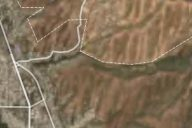
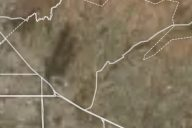
0.0.1

diff --git a/apps/web/src/components/map/basemap.ts b/apps/web/src/components/map/basemap.ts
@@ -34,56 +34,69 @@ function absolute(path: string): string {
 }
 
 /**
- * Подложка Protomaps в цветах дизайн‑системы: холодный светлый фон в обеих темах, чтобы цветные
- * слои (станции, SILAM, предупреждения, границы) читались. В тёмной теме — приглушённый
- * серо‑синий вариант «grayscale», а не чёрная карта (docs/03-design-system.md §5).
+ * «Схема» — классическая цветная карта в пастельных тонах: тёплая суша, голубая вода, зелёная
+ * растительность, песочные пустоши, белые ледники, жёлтые магистрали. Насыщенность ниже, чем у
+ * цветов уровней качества воздуха, поэтому станции и прогноз поверх читаются; нейтральный вариант
+ * без цвета — «Серая». Карта светлая в обеих темах, в тёмной — чуть приглушена
+ * (docs/03-design-system.md §5).
  */
 function flavorFor(theme: "light" | "dark"): { flavor: Flavor; sprite: string } {
-  if (theme === "dark") {
-    const base = namedFlavor("grayscale");
-    return {
-      sprite: "grayscale",
-      flavor: {
-        ...base,
-        background: "#d8dee8",
-        earth: "#e3e8f0",
-        park_a: "#dbe6dc",
-        park_b: "#d3e0d4",
-        water: "#b9c9dc",
-        buildings: "#d4dbe6",
-        major: "#f4f6f9",
-        highway: "#f6f8fb",
-        country_label: "#3b4a63",
-        city_label: "#2e3d55",
-        state_label: "#4e5f78",
-      },
-    };
-  }
   const base = namedFlavor("light");
-  return {
-    sprite: "light",
-    flavor: {
-      ...base,
-      background: "#e9eef5",
-      earth: "#eef2f7",
-      water: "#cfdcec",
-      park_a: "#dfeadf",
-      park_b: "#d5e3d6",
-      country_label: "#3b4a63",
-      city_label: "#142238",
-      // Растительность — едва заметными оттенками фона: насыщенные зелёный и жёлтый спорили бы с
-      // цветами уровней качества воздуха (станции и SILAM поверх подложки).
-      landcover: {
-        grassland: "#e7eee7",
-        barren: "#f1efea",
-        urban_area: "#e5e8ed",
-        farmland: "#e8eee6",
-        glacier: "#f8fafc",
-        scrub: "#ecefe6",
-        forest: "#dfe9e1",
-      },
+  const flavor: Flavor = {
+    ...base,
+    background: "#e9e4da",
+    earth: "#f4f1ea",
+    water: "#a8cbe6",
+    park_a: "#d5e8cf",
+    park_b: "#c4e0bc",
+    wood_a: "#d2e6cc",
+    wood_b: "#bddbb4",
+    scrub_a: "#dfe8cd",
+    scrub_b: "#cbdfb6",
+    glacier: "#fbfcfd",
+    sand: "#efe5cc",
+    beach: "#f1e6c6",
+    buildings: "#e2dcd2",
+    industrial: "#e6e1d9",
+    aerodrome: "#e4e2dd",
+    major: "#ffffff",
+    major_casing_early: "#ddd4c4",
+    major_casing_late: "#ddd4c4",
+    highway: "#f7d590",
+    highway_casing_early: "#dfb766",
+    highway_casing_late: "#dfb766",
+    country_label: "#3b4a63",
+    city_label: "#142238",
+    landcover: {
+      grassland: "#dcebd2",
+      barren: "#efe6d3",
+      urban_area: "#e5e0d8",
+      farmland: "#e2ecce",
+      glacier: "#fbfcfd",
+      scrub: "#e3e9cd",
+      forest: "#c7dfc0",
     },
   };
+  return { sprite: "light", flavor: theme === "dark" ? dimFlavor(flavor, 0.14) : flavor };
+}
+
+/** Тёмная тема: цвета схемы сдвинуты к серо‑синему, чтобы светлая карта не слепила. */
+function dimFlavor(flavor: Flavor, amount: number): Flavor {
+  const target = [0x8a, 0x95, 0xa6];
+  const dim = (value: unknown): unknown => {
+    if (typeof value === "string" && /^#[0-9a-f]{6}$/i.test(value)) {
+      const rgb = [1, 3, 5].map((i) => Number.parseInt(value.slice(i, i + 2), 16));
+      return `#${rgb
+        .map((c, i) => Math.round(c + ((target[i] ?? c) - c) * amount))
+        .map((c) => c.toString(16).padStart(2, "0"))
+        .join("")}`;
+    }
+    if (value && typeof value === "object") {
+      return Object.fromEntries(Object.entries(value).map(([k, v]) => [k, dim(v)]));
+    }
+    return value;
+  };
+  return dim(flavor) as Flavor;
 }
 
 /** Серая подложка: нейтральная, без цветных заливок — цвета данных читаются лучше всего. */

diff --git a/docs/02-architecture.md b/docs/02-architecture.md
@@ -293,8 +293,8 @@ select add_compression_policy('measurements', interval '3 months');
 - Компонент `apps/web/src/components/map/station-map.tsx` (MapLibre GL 6, подложка Protomaps из самостоятельно размещённых PMTiles — `basemap.ts`), ленивое монтирование `station-map.lazy.tsx`. Главная страница — `map-screen.tsx` (сервер: станции с уровнем и подписями, сводка по городу из шапки, каталоги SILAM и SmartMet, предупреждения) и `map-view.tsx` (клиент); та же карта без интерфейса главной — на `/air` (`components/air/station-map-section.tsx`), на странице станции — с центром на станции.
 - Главная (просьба Заказчика 02.11.2026 — «как у других, красиво, понятно, без информационного шума»): **одна тема за раз** — переключатели «Воздух · Погода» и «Сейчас · Прогноз» (нативные радиокнопки) вместо панели из шести флажков. «Воздух · Сейчас» — станции; «Воздух · Прогноз» — растр SILAM с ползунком; «Погода · Сейчас» — HTML‑маркеры городов (SmartSymbol и температура; крупные города на любом масштабе, остальные с зума 8); «Погода · Прогноз» — WMS SmartMet, переключатель срока показывается, только если прогноз загружен. Выбор пишется в адрес (`?layer=silam|weather`, `history.replaceState`). Карточка города из шапки (`home-cards.tsx`, серверные компоненты): уровень словом и цветом, определяющее вещество (`до …` при нескольких станциях), время обновления и шкала уровней `LevelGauge` — она же легенда; для погоды — значок, температура, макс/мин, ветер. На широком экране колонка 23rem слева (страна вписывается правее, `insetLeft`), на телефоне карточка внизу над атрибуцией OSM (`insetBottom`). Предупреждения CAP — слой и плашка с числом, только когда действуют. Недоступное не показывается: без SILAM или WMS нет переключателя срока, без данных нет «скоро» и технических пояснений.
 - Станции на главной приходят с сервера готовым GeoJSON (`stationsData`: уровень, подпись уровня, «PM2.5 34 µg/m³», «Обновлено 10:00»), без запроса `/api/v1/stations`. Свежие станции кластеризуются (кружок цвета худшего уровня с ореолом, без числа — число читалось бы как значение индекса), станции без свежих данных — отдельный слой бледных колец с зума 8; приостановленные и выведенные не показываются. Попап станции — уровень словом, значение, время, ссылка. На `/air` и странице станции — прежние кластеры с числом и `/api/v1/stations`.
-- Контур страны `GET /api/v1/regions/outline` (§9) → маска «всё, кроме Таджикистана» (`outline-mask.ts`: прямоугольник мира с внешними кольцами контура в роли дырок, направление обхода дырок разворачивается) поверх подписей подложки: соседние страны приглушены (сильнее, когда включён растровый прогноз — его прямоугольник выходит за границу), контур страны — линия поверх маски. Растительность подложки — едва заметными оттенками фона, чтобы не спорить с цветами уровней. Контролы главной: зум (только на широком экране) и геолокация, без полноэкранного режима и масштабной линейки.
-- Тип карты (02.11.2026, просьба Заказчика — «как „Тип географических карт“ у data.meteo.uz, только открыто и бесплатно»): кнопка с миниатюрой текущей подложки (`basemap-picker.tsx`, меню‑radio с картинками `public/map-types/*.jpg`), выбор хранится в `localStorage` (`meteo-basemap`). `buildBasemapStyle(theme, lang, basemap)` (`basemap.ts`): `scheme` — светлая Protomaps (приглушённая в тёмной теме), `gray` — нейтральная серая, `relief` — схема + слой `hillshade` из `raster-dem` (`/tiles/terrain.pmtiles`, Terrarium 512 px) над растительностью и под водой и дорогами, `satellite` — растр `/tiles/satellite.pmtiles` поверх тёмной схемы (вне снимка) с границами, крупными дорогами и подписями Protomaps (`labelsOnly`). Рельеф и спутник предлагаются, только если `HEAD /tiles/…` отвечает 200; на снимке контуры областей и страны светлые. Данные — только открытые и на своём сервере: `infra/data/fetch-basemap-layers.sh` (рельеф — `build-terrain.mjs`, копия тайлов Mapterhorn/Copernicus DEM с собственной записью PMTiles v3; спутник — GDAL в Docker из COG ESA WorldCover на AWS Open Data, только обзорный уровень 40 м), runbook §1.5.
+- Контур страны `GET /api/v1/regions/outline` (§9) → маска «всё, кроме Таджикистана» (`outline-mask.ts`: прямоугольник мира с внешними кольцами контура в роли дырок, направление обхода дырок разворачивается) поверх подписей подложки: соседние страны приглушены (сильнее, когда включён растровый прогноз — его прямоугольник выходит за границу), контур страны — линия поверх маски. Подложка по умолчанию — «Схема»: цветная, но пастельная (растительность, вода, пустоши, ледники), насыщенность ниже цветов уровней; «Серая» — та же карта без цвета, для максимального контраста с данными. Контролы главной: зум (только на широком экране) и геолокация, без полноэкранного режима и масштабной линейки.
+- Тип карты (02.11.2026, просьба Заказчика — «как „Тип географических карт“ у data.meteo.uz, только открыто и бесплатно»): кнопка с миниатюрой текущей подложки (`basemap-picker.tsx`, меню‑radio с картинками `public/map-types/*.jpg`), выбор хранится в `localStorage` (`meteo-basemap`). `buildBasemapStyle(theme, lang, basemap)` (`basemap.ts`): `scheme` — цветная пастельная Protomaps (в тёмной теме цвета сдвинуты к серо‑синему, `dimFlavor`), `gray` — нейтральная серая, `relief` — схема + слой `hillshade` из `raster-dem` (`/tiles/terrain.pmtiles`, Terrarium 512 px) над растительностью и под водой и дорогами, `satellite` — растр `/tiles/satellite.pmtiles` поверх тёмной схемы (вне снимка) с границами, крупными дорогами и подписями Protomaps (`labelsOnly`). Рельеф и спутник предлагаются, только если `HEAD /tiles/…` отвечает 200; на снимке контуры областей и страны светлые. Данные — только открытые и на своём сервере: `infra/data/fetch-basemap-layers.sh` (рельеф — `build-terrain.mjs`, копия тайлов Mapterhorn/Copernicus DEM с собственной записью PMTiles v3; спутник — GDAL в Docker из COG ESA WorldCover на AWS Open Data, только обзорный уровень 40 м), runbook §1.5.
 - Слои снизу вверх: подложка → заливка областей (`regions-fill`) → растр SILAM (`silam-raster`) → погода SmartMet (`weather-raster`, `weather-arrows`) → контуры районов (`districts-line`, с зума 8; GeoJSON районов запрашивается при первом приближении к зуму 7) → контуры областей (`regions-line`) → предупреждения CAP (`warnings-fill`, `warnings-line`) → подписи подложки → маска и контур страны (`country-mask`, `country-line`) → станции. Оверлеи вставляются под первый symbol‑слой стиля в порядке списка `OVERLAY_ORDER`, поэтому порядок не зависит от того, какой слой включили первым. Смена темы (`setStyle` без diff) пересоздаёт стиль — оверлеи восстанавливает обработчик `style.load` (контур страны берётся из памяти, без повторного запроса); обработчики кликов и наведения регистрируются один раз (делегируются по id слоя).
 - Границы регионов: `GET /api/v1/regions` и `GET /api/v1/districts` (§9) — на главной всегда видны (без флажков). Наведение — подсветка через feature-state и подпись области на языке интерфейса, клик — попап с названием, числом станций и ссылкой на `/air`; клики по станциям и предупреждениям границы не перехватывают. Заливка областей цветом худшего уровня (`BoundariesLayer.fill`) поддерживается картой, но с главной убрана: при станциях в одном‑двух районах она красила бы целые области по одному датчику. Пока геометрии не загружены, API отдаёт пустую коллекцию и слой пуст.
 - Источник границ: `infra/data/load-boundaries.ts` (GADM 4.1 по умолчанию, geoBoundaries через `--source=geoboundaries`; ST_MakeValid → ST_SimplifyPreserveTopology 0,002° → upsert по коду; таксономия COD‑AB в `infra/data/boundaries/`). Лицензия GADM не допускает распространение без разрешения — для продакшена рекомендуется geoBoundaries (ODbL, как и тайлы OSM), решение за Заказчиком (D9).

diff --git a/docs/03-design-system.md b/docs/03-design-system.md
@@ -120,7 +120,7 @@
 | `ExceedanceNotice` | `components/air` | превышения порогов одной строкой на вещество («PM10 выше порога на 5 станциях с 18:10 · Что это значит»), на странице станции — значение и порог |
 | `StationFeed` | `components/air` | лента станций: плитка с цветной полоской слева, значение определяющего вещества, слово уровня и время; без данных — «нет данных с …» |
 | `PollutantTiles` | `components/air` | плитки веществ: короткое имя с подсказкой (`pollutantHints.*`), плашка уровня, значение, спарклайн, мин/макс; пустые состояния «станция не измеряет SO₂, ближайшая с этим веществом — …» |
-| `MapPanel` / `StationMap` | `components/air`, `components/map` | карта с легендой‑фишками на самой карте и фишками слоёв (ссылки на `/?layer=…`); подложка Protomaps светлая в обеих темах (`basemap.ts`: light / приглушённый grayscale) |
+| `MapPanel` / `StationMap` | `components/air`, `components/map` | карта с легендой‑фишками на самой карте и фишками слоёв (ссылки на `/?layer=…`); подложка Protomaps светлая в обеих темах (`basemap.ts`: «Схема» — пастельная цветная, в тёмной теме приглушена; «Серая» — без цвета) |
 | `MeasurementChart` / `WeatherChart` | `components/air`, `components/weather` | ECharts в токенах: полосы уровней тинтами, линия `--brand-primary`, оси и подписи `--muted-foreground`, подсказка в `--popover`; табы периодов сегментным контролом |
 | `SilamDays` | `components/air` | прогноз SILAM по дням плитками: день, плашка уровня, определяющее вещество |
 | `CityWeatherList` | `components/weather` | погода по городам списком: название и описание, температура, плашка «воздух» (уровень по станциям в радиусе 15 км от точки прогноза, `lib/city-air.ts`) |
@@ -140,7 +140,7 @@
 
 **Остальные публичные страницы:** `/air` — сводка («13 станций, 8 передают данные…»), легенда, карта, лента по областям; `/weather` — города списком с плашкой «воздух», выбранный город первым; `/weather/{slug}` — полоса «сейчас» (температура крупно, факты), прогноз SILAM плитками, предупреждения, лента 24 ч, график, таблица дней; `/warnings` — сводка, матрица регион × день, карточки с полоской серьёзности; `/news` — редакционный список с рубриками‑фишками; `/health` — секция на уровень с заливкой `--aq-N-tint`; `/air/index` — методика и таблицы порогов (`#thresholds` — цель ссылки «Что это значит»); `/data`, `/data/api`, `/about` — секции без карточек; `/embed/*` — те же токены, компактно.
 
-**Карта (главная):** колонка слева (23rem) — переключатели‑«таблетки» темы и срока (нативные радиокнопки, главный выбор — заливка `primary`, срок — `muted`) и под ними карточка города или прогноза на `bg-card/95`; на телефоне переключатели сверху, карточка снизу над атрибуцией OSM. Шкала уровней `LevelGauge` — сегменты всех уровней публичной шкалы, текущий выше и с обводкой, подписи крайних уровней, полный список для экранных дикторов; без выделения — легенда прогноза. Подложка: растительность едва заметными оттенками фона (не спорит с цветами уровней), вне страны — маска `#eef2f6` 72 % (88 % при растровом прогнозе). «Тип карты» — квадрат с миниатюрой текущей подложки (как в Google Maps; 76×64 на широком экране слева внизу, 44×44 на телефоне справа под геолокацией), меню — сетка 2×2 миниатюр с подписями, выбранная обведена `primary`.
+**Карта (главная):** колонка слева (23rem) — переключатели‑«таблетки» темы и срока (нативные радиокнопки, главный выбор — заливка `primary`, срок — `muted`) и под ними карточка города или прогноза на `bg-card/95`; на телефоне переключатели сверху, карточка снизу над атрибуцией OSM. Шкала уровней `LevelGauge` — сегменты всех уровней публичной шкалы, текущий выше и с обводкой, подписи крайних уровней, полный список для экранных дикторов; без выделения — легенда прогноза. Подложка «Схема»: тёплая суша, голубая вода, зелень и песочные пустоши в пастельных тонах — насыщенность ниже цветов уровней, станции с белой обводкой читаются; «Серая» — без цвета, для максимального контраста с данными; вне страны — маска `#eef2f6` 72 % (88 % при растровом прогнозе). «Тип карты» — квадрат с миниатюрой текущей подложки (как в Google Maps; 76×64 на широком экране слева внизу, 44×44 на телефоне справа под геолокацией), меню — сетка 2×2 миниатюр с подписями, выбранная обведена `primary`.
 
 **Админка:** те же токены и шрифты; дашборд — показатели одной строкой (ссылки в разделы), статус worker в заголовке, свежесть данных станций таблицей компактных строк, интеграции и почта списками, последние действия; формы и таблицы — shadcn без глубокой переделки.
 

diff --git a/docs/manuals/user/tg.md b/docs/manuals/user/tg.md
@@ -115,7 +115,7 @@
 
 **Обу ҳаво · Пешгӯӣ** (вақте харитаҳои SmartMet Server пайваст шудаанд) — ҳарорати ҳаво, боришот, шамол ё абрнокӣ бо лағжонаки вақт ва шкалаи қиматҳо.
 
-**Намуди харита** — тугма бо тасвири хурди харита (дар компютер — аз чап дар поён, дар телефон — аз рост дар боло, зери тугмаи мавқеъ): «Нақша», «Хокистарӣ», «Релйеф» (сояи кӯҳҳо аз рӯи модели рақамии релйефи Copernicus) ва «Моҳвора» (тасвири бебулути Sentinel-2 барои соли 2021). Интихоб дар браузер нигоҳ дошта мешавад. Ҳамаи заминаҳо аз маълумоти кушода сохта шуда, дар сервери портал нигоҳ дошта мешаванд.
+**Намуди харита** — тугма бо тасвири хурди харита (дар компютер — аз чап дар поён, дар телефон — аз рост дар боло, зери тугмаи мавқеъ): «Нақша» (харитаи оддии рангин: наботот, об, роҳҳо), «Хокистарӣ» (ҳамон харита бе ранг — рангҳои истгоҳҳо ва пешгӯӣ беҳтар намоён мешаванд), «Релйеф» (сояи кӯҳҳо аз рӯи модели рақамии релйефи Copernicus) ва «Моҳвора» (тасвири бебулути Sentinel-2 барои соли 2021). Интихоб дар браузер нигоҳ дошта мешавад. Ҳамаи заминаҳо аз маълумоти кушода сохта шуда, дар сервери портал нигоҳ дошта мешаванд.
 
 Дар харита ҳамеша контурҳои вилоятҳо, Душанбе ва НТҶ намоёнанд, ҳангоми наздик кардан — сарҳадҳои хатчаноки ноҳияҳо. Нишондиҳандаро ба вилоят баред — он равшан шуда номашро нишон медиҳад; пахш кунед — корт бо шумораи истгоҳҳо ва истинод ба рӯйхати истгоҳҳо кушода мешавад. Огоҳиҳои амалкунанда — полигонҳо бо ранги сатҳи хатар; барои хондани сарлавҳа ва мӯҳлати амал ба полигон пахш кунед.
 

diff --git a/docs/manuals/user/ru.md b/docs/manuals/user/ru.md
@@ -113,7 +113,7 @@
 
 **Погода · Прогноз** (когда подключены карты SmartMet Server) — температура воздуха, осадки, ветер или облачность с ползунком времени и шкалой значений.
 
-**Тип карты** — кнопка с миниатюрой карты (на компьютере — слева внизу, на телефоне — справа вверху под кнопкой местоположения): «Схема», «Серая», «Рельеф» (затенение гор по цифровой модели рельефа Copernicus) и «Спутник» (безоблачный снимок Sentinel-2 за 2021 год). Выбор запоминается в браузере. Все подложки построены на открытых данных и хранятся на сервере портала.
+**Тип карты** — кнопка с миниатюрой карты (на компьютере — слева внизу, на телефоне — справа вверху под кнопкой местоположения): «Схема» (обычная цветная карта: растительность, вода, дороги), «Серая» (та же карта без цвета — цвета станций и прогноза заметнее всего), «Рельеф» (затенение гор по цифровой модели рельефа Copernicus) и «Спутник» (безоблачный снимок Sentinel-2 за 2021 год). Выбор запоминается в браузере. Все подложки построены на открытых данных и хранятся на сервере портала.
 
 На карте всегда видны контуры областей, Душанбе и РРП, при приближении — пунктирные границы районов. Наведите указатель на область — она подсветится и покажет название; нажмите — откроется карточка с числом станций и ссылкой на список станций. Действующие предупреждения — полигоны цвета уровня опасности; нажмите на полигон, чтобы прочитать заголовок и срок действия.
 

diff --git a/docs/manuals/user/en.md b/docs/manuals/user/en.md
@@ -113,7 +113,7 @@ The map is the portal's home page (`/`; the old address `/map` leads there too).
 
 **Weather · Forecast** (when SmartMet Server maps are connected) — air temperature, precipitation, wind or cloud cover with a time slider and a value scale.
 
-**Map type** — a button with a map thumbnail (bottom left on a computer, top right under the location button on a phone): "Map", "Grey", "Terrain" (hill shading from the Copernicus digital elevation model) and "Satellite" (a cloud‑free Sentinel‑2 image for 2021). The choice is remembered in the browser. All base maps are built from open data and stored on the portal's server.
+**Map type** — a button with a map thumbnail (bottom left on a computer, top right under the location button on a phone): "Map" (a regular colour map: vegetation, water, roads), "Grey" (the same map without colour, so station and forecast colours stand out most), "Terrain" (hill shading from the Copernicus digital elevation model) and "Satellite" (a cloud‑free Sentinel‑2 image for 2021). The choice is remembered in the browser. All base maps are built from open data and stored on the portal's server.
 
 The outlines of the regions, Dushanbe and the RRP are always shown, and dashed district boundaries appear when zoomed in. Hover over a region to highlight it and see its name; click to open a card with the number of stations and a link to the station list. Active warnings are polygons coloured by danger level; click a polygon to read its headline and validity period.
 
